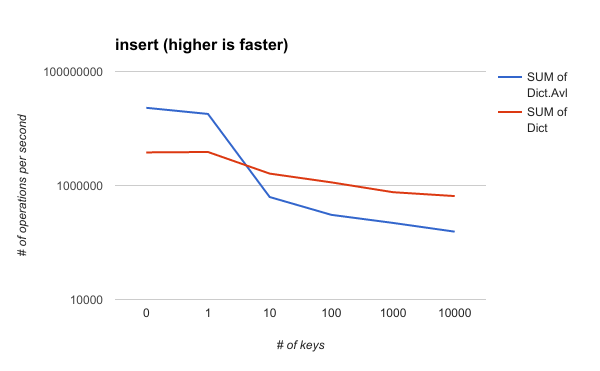
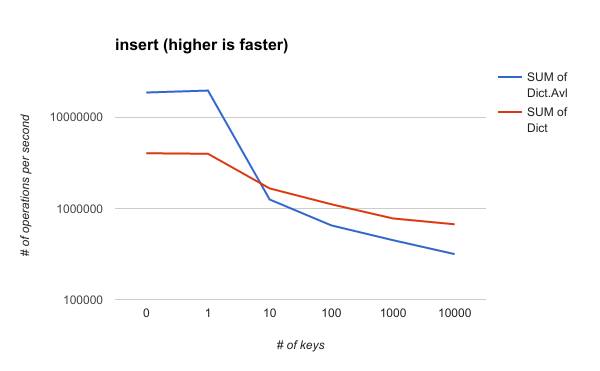
README: update with latest performance numbers

diff --git a/README.md b/README.md
@@ -1,6 +1,6 @@
 # Elm AVL Exploration [![Build Status](https://travis-ci.org/BrianHicks/elm-avl-exploration.svg?branch=master)](https://travis-ci.org/BrianHicks/elm-avl-exploration)
 
-A drop-in reimplementation of Elm's [`Dict`](http://package.elm-lang.org/packages/elm-lang/core/latest/Dict) and [`Set`](http://package.elm-lang.org/packages/elm-lang/core/latest/Set) using [AVL trees](https://en.wikipedia.org/wiki/AVL_tree) instead of [red-black trees](https://en.wikipedia.org/wiki/Red%E2%80%93black_tree).
+A drop-in reimplementation of Elm's [`Dict`](http://package.elm-lang.org/packages/elm-lang/core/latest/Dict) using [AVL trees](https://en.wikipedia.org/wiki/AVL_tree) instead of [red-black trees](https://en.wikipedia.org/wiki/Red%E2%80%93black_tree).
 
 ## Quick Start
 
@@ -12,20 +12,23 @@ A drop-in reimplementation of Elm's [`Dict`](http://package.elm-lang.org/package
 I wrote the original implementation [for a blog series on functional data structures](https://www.brianthicks.com/post/2016/11/13/functional-sets-part-1-construction/).
 After I was done, I wondered how my implementation compared to core, speed-wise.
 
-Short answer: it's about 20% faster for reads, but half as fast for writes.
+Short answer: it's about 30% faster for reads, but 30% slower for inserts.
 If you know that you do a lot more reading than you do writing, especially on a small number of keys, this library will probably be faster than core.
 
 Data from my machine is below. You can replicate by building `benchmark/Main.elm` and visiting the result in your browser.
 
+**WARNING: Treat these figures as hypothetical.**
+You can and should use [`BrianHicks/elm-benchmark`](https://github.com/BrianHicks/elm-benchmark) to verify these results in your own project with your own sample data.
+
 ### `get`
 
-`Dict.Avl.get` is about 18% faster than `Dict.get`, on average.
+`Dict.Avl.get` is about 30% faster than `Dict.get`, on average.
 
 ![get performance](docs/get-performance.png)
 
 ### `toList`
 
-`Dict.Avl.toList` is about 26% faster than `Dict.toList`, on average.
+`Dict.Avl.toList` is about 10% faster than `Dict.toList`, on average.
 `toList` is implemented using `foldl`, which may be an indicator of performance there.
 This advantage is mainly found on sets of 10 or fewer items.
 
@@ -33,15 +36,15 @@ This advantage is mainly found on sets of 10 or fewer items.
 
 ### `insert`
 
-`Dict.Avl.insert` is about half as fast as `Dict.insert`, on average.
+`Dict.Avl.insert` is about 35% slower than `Dict.insert`, on average.
 This disadvantage is mainly found on sets of 10 or more items.
 
 ![insert performance](docs/insert-performance.png)
 
 ### `remove`
 
-`Dict.Avl.remove` is about half as fast as `Dict.insert`, on average.
-This disadvantage is mainly found on sets of 10 or more items.
+`Dict.Avl.remove` is about 25% faster than `Dict.insert`, on average.
+This advantage is mainly found on sets of 10 or fewer items.
 
 ![remove performance](docs/remove-performance.png)
 
